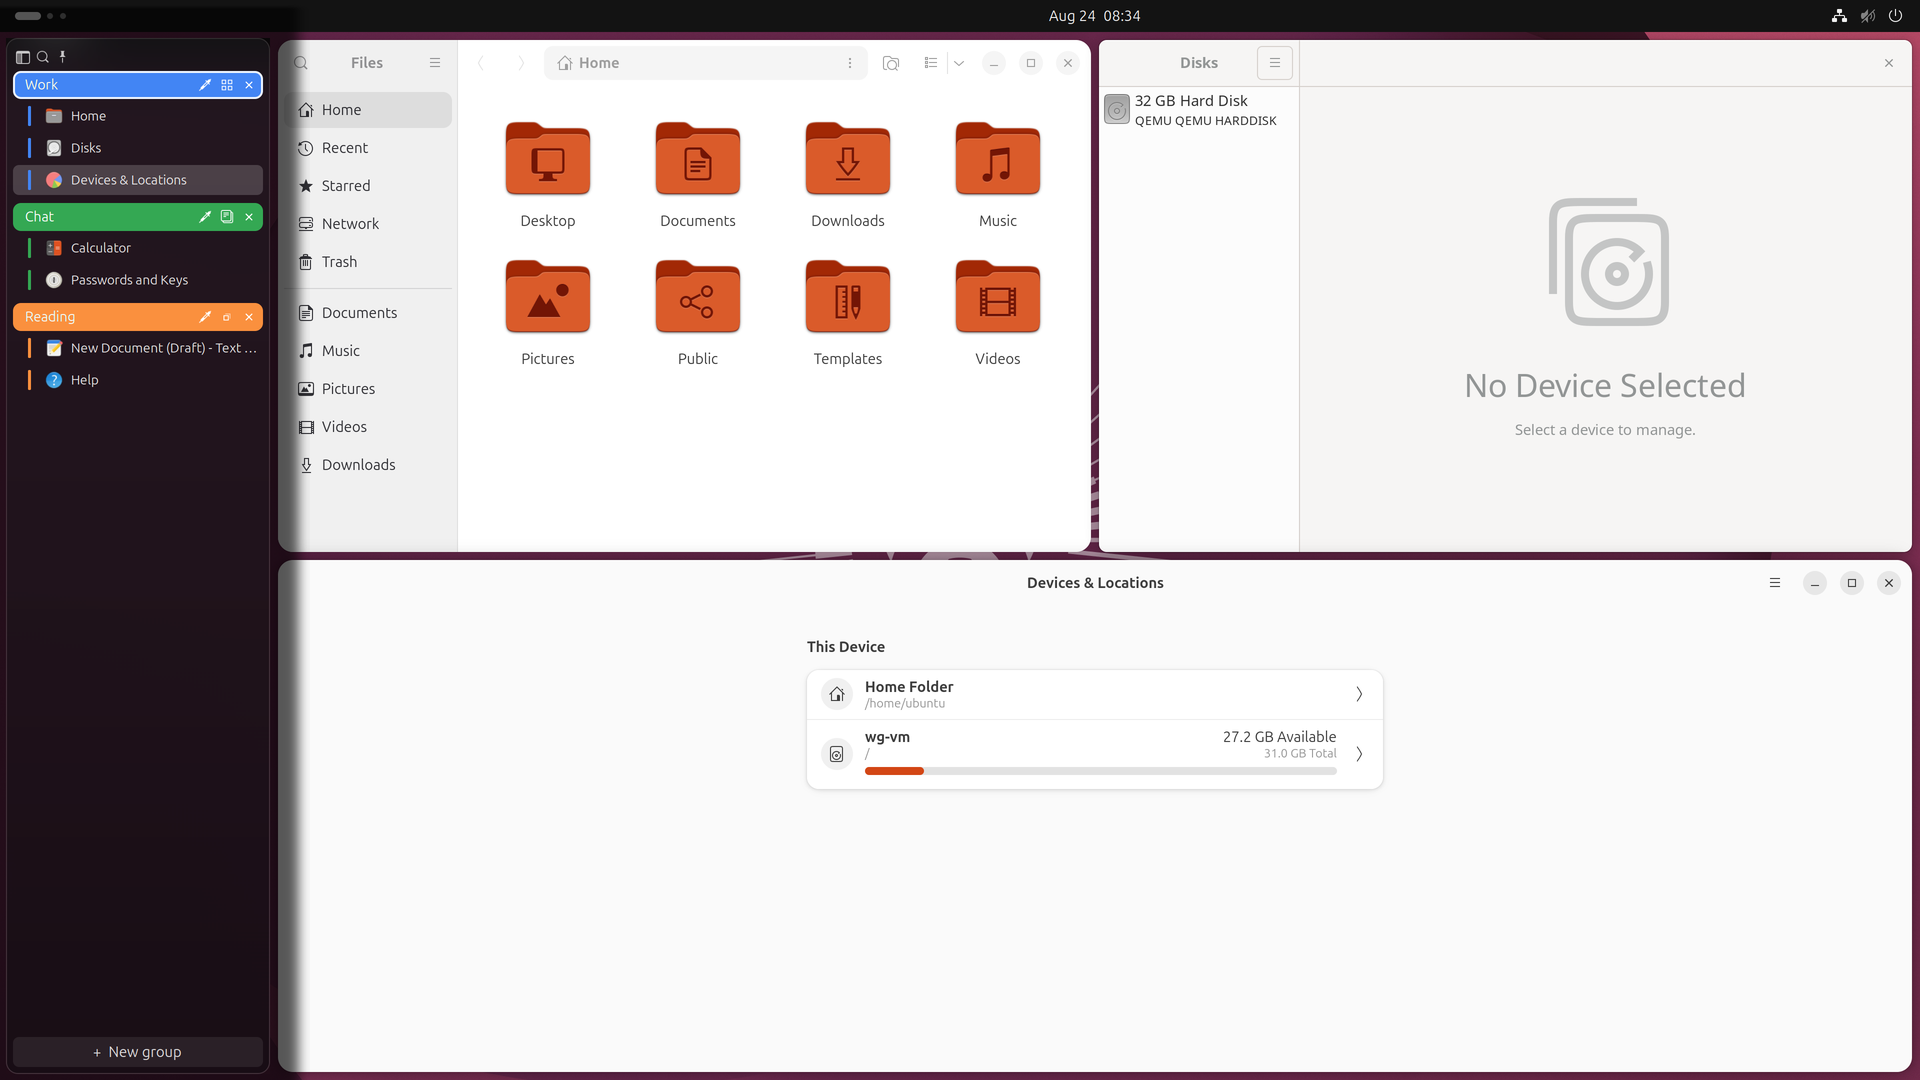
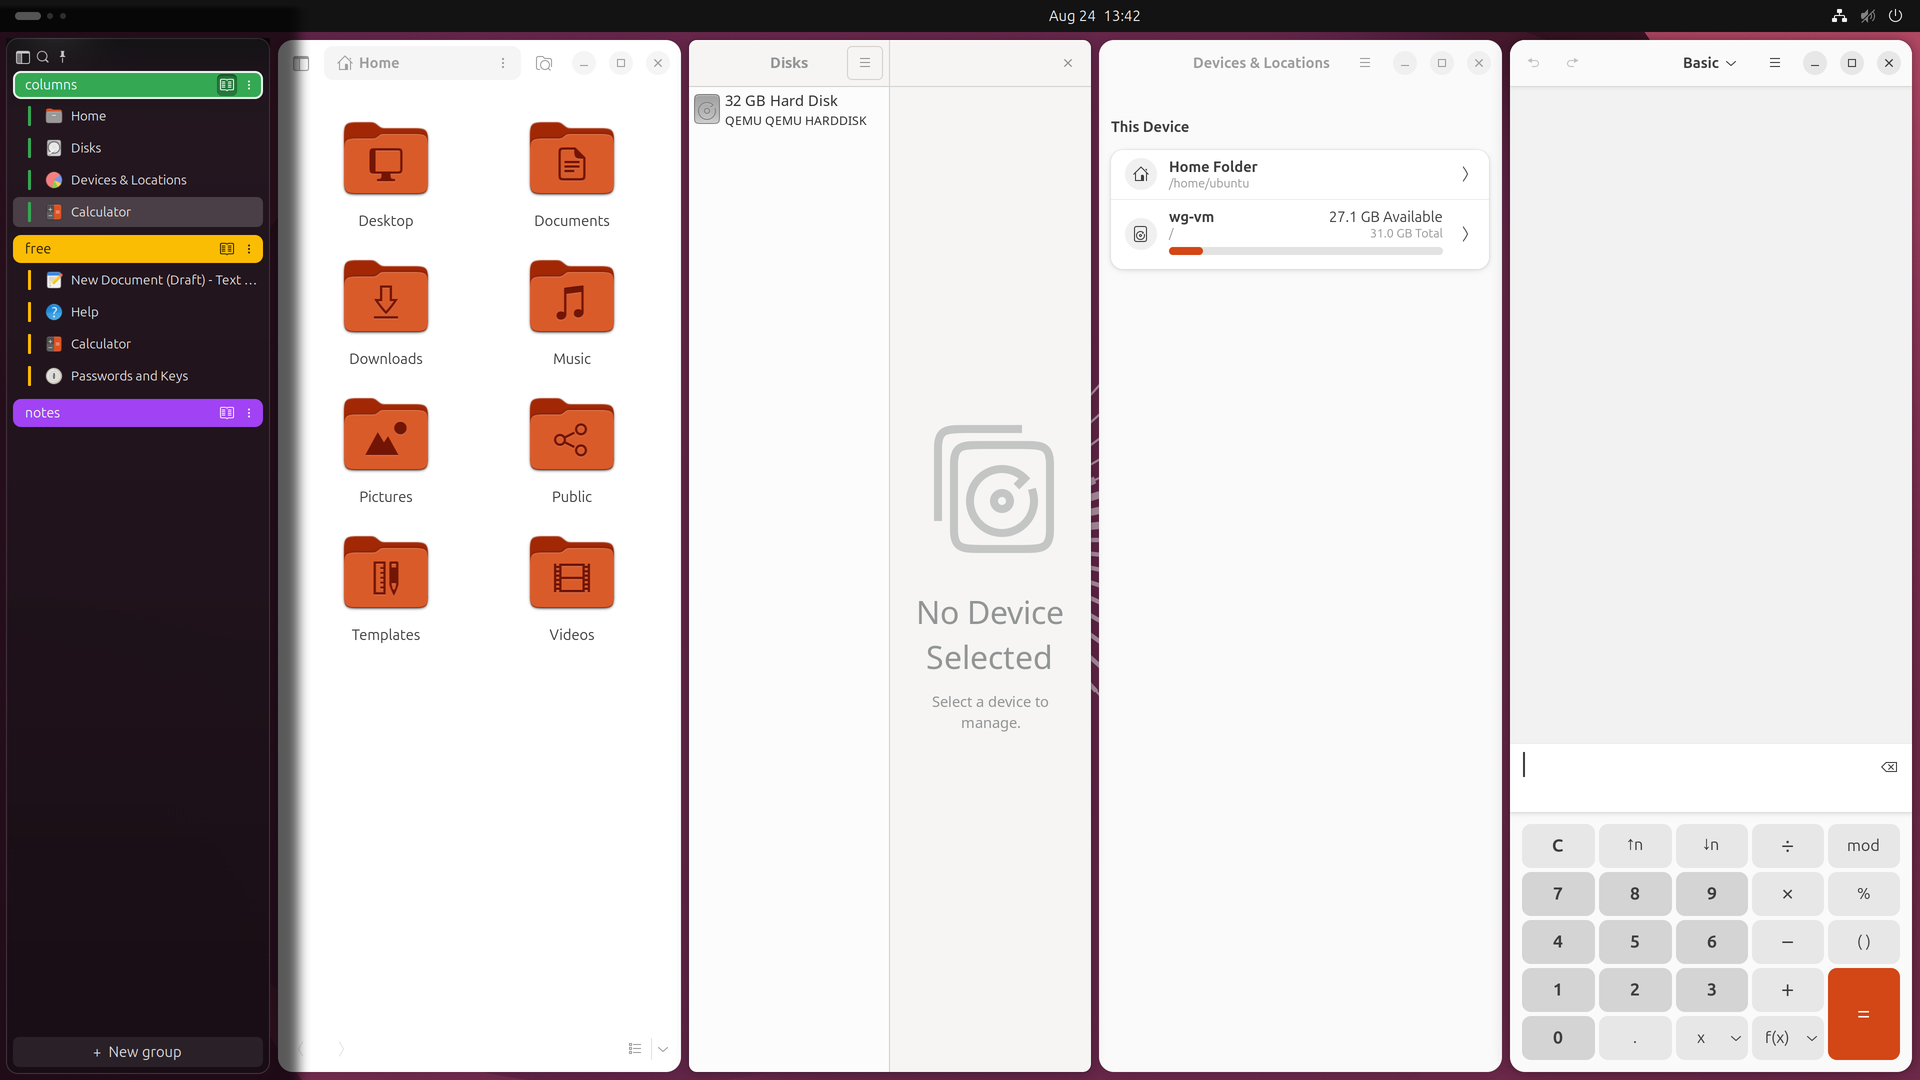
Put the arrangement on a toggle in the group header
Two arrangements is a boolean, so it is a switch, not a menu. Free/columns now
lives on the group header as a toggle button, checked when the group is tiled.

This does not undo the reasoning that moved controls into the menu. That was
about dissolve, which is irreversible, and rename, which is multi-step; both
are the wrong thing to put a few pixels from a control you click in passing on
a surface that appears and leaves on a timer. Arrangement is neither, has
exactly two states, and the button shows which one you are in. Three clicks
deep in a submenu it simply read as broken.

Drops the Arrangement submenu, and with it the workspace switch on change --
that existed only to make an invisible retile noticeable, and the toggle's own
state is better feedback than yanking you to another workspace. cycleArrangement
and ARRANGEMENT_LABEL are now unused and go too.

GetState reports the drawn arrangement and the toggle's checked state, and the
integration suite asserts both round-trip.

Also fix the keyboard section of that suite, which pressed up from the top
group and asserted it was still on the top group: three of its four checks
passed whether or not any keystroke was delivered. Only the fourth could fail,
and it did, intermittently -- for arriving late against a fixed one-second
sleep rather than for being wrong. Every step now moves to a value it was not
already on and waits for it. Three consecutive clean runs.

diff --git a/extension.js b/extension.js
@@ -79,10 +79,13 @@ const BUTTON_ICON_SIZE = 14;
  *  imports nothing from GNOME and is unit tested separately. */
 const ARRANGEMENTS = ['free', 'columns'];
 
-const ARRANGEMENT_LABEL = {
-    'free': 'Free',
-    'columns': 'Columns',
-};
+/** With exactly two arrangements the choice is a boolean, so the header
+ *  carries a toggle rather than a menu: one click each way, and the button
+ *  itself shows which way the group is set. A menu was the right home for
+ *  dissolve and rename -- irreversible and multi-step respectively -- but
+ *  tiling is neither, and burying a cheap reversible switch three clicks deep
+ *  made it read as broken. */
+const COLUMNS_ICON = 'view-dual-symbolic';
 
 /** Group colours, modelled on Chrome's tab groups, grey first as its default. */
 const GROUP_COLORS = [
@@ -167,12 +170,6 @@ class GroupModel {
         const values = this._padded(this._settings.get_strv('arrangements'), 'free');
         values[index] = value;
         this._settings.set_strv('arrangements', values);
-    }
-
-    cycleArrangement(index) {
-        const next = (ARRANGEMENTS.indexOf(this.arrangement(index)) + 1) % ARRANGEMENTS.length;
-        this.setArrangement(index, ARRANGEMENTS[next]);
-        return ARRANGEMENTS[next];
     }
 
     color(index) {
@@ -679,6 +676,16 @@ class GroupSection extends St.BoxLayout {
         });
         header.add_child(this._nameButton);
 
+        this._arrangeButton = iconButton(COLUMNS_ICON,
+            _('Tile this group in columns'), 'wg-icon-button');
+        this._arrangeButton.toggle_mode = true;
+        this._arrangeButton.checked =
+            this._model.arrangement(this._index) === 'columns';
+        this._arrangeButton.get_child().style = `color: ${ink};`;
+        this._arrangeButton.connect('clicked', button =>
+            this._setArrangement(button.checked ? 'columns' : 'free'));
+        header.add_child(this._arrangeButton);
+
         // One visible affordance for the whole menu. Right-clicking works
         // too, but an interaction with no affordance is one nobody finds.
         this._menuButton = iconButton('view-more-symbolic',
@@ -747,6 +754,14 @@ class GroupSection extends St.BoxLayout {
         this._header = header;
     }
 
+    _setArrangement(kind) {
+        this._model.setArrangement(this._index, kind);
+        // Stale ratios belong to the previous layout's slot count.
+        this._model.setLayoutState(this._index, {});
+        this._sidebar.relayout(this._index);
+        this._sidebar.queueRebuild();
+    }
+
     on_destroy() {
         this._closeMenu();
     }
@@ -757,12 +772,15 @@ class GroupSection extends St.BoxLayout {
     _recordRendered(color) {
         this._renderedColor = color.name;
         this._renderedName = this._model.name(this._index);
+        this._renderedArrangement = this._model.arrangement(this._index);
     }
 
     renderedState() {
         return {
             name: this._renderedName ?? '',
             color: this._renderedColor ?? '',
+            arrangement: this._renderedArrangement ?? '',
+            columnsToggle: this._arrangeButton?.checked ?? false,
         };
     }
 
@@ -826,30 +844,6 @@ class GroupSection extends St.BoxLayout {
             colors.menu.addMenuItem(item);
         }
         menu.addMenuItem(colors);
-
-        const layouts = new PopupMenu.PopupSubMenuMenuItem(
-            _('Arrangement: %s').format(
-                ARRANGEMENT_LABEL[this._model.arrangement(this._index)]));
-        for (const kind of ARRANGEMENTS) {
-            const item = new PopupMenu.PopupMenuItem(ARRANGEMENT_LABEL[kind]);
-            if (kind === this._model.arrangement(this._index))
-                item.setOrnament(PopupMenu.Ornament.DOT);
-            item.connect('activate', () => {
-                this._model.setArrangement(this._index, kind);
-                // Stale ratios belong to the previous layout's slot count.
-                this._model.setLayoutState(this._index, {});
-                // Switch to the group as well. Rearranging windows you cannot
-                // see is indistinguishable from the menu doing nothing, which
-                // is exactly how it was reported.
-                if (this._index !== this._model.activeIndex)
-                    this._model.workspace(this._index)?.activate(
-                        global.get_current_time());
-                this._sidebar.relayout(this._index);
-                this._sidebar.queueRebuild();
-            });
-            layouts.menu.addMenuItem(item);
-        }
-        menu.addMenuItem(layouts);
 
         menu.addMenuItem(new PopupMenu.PopupSeparatorMenuItem());
 

diff --git a/stylesheet.css b/stylesheet.css
@@ -67,6 +67,16 @@
 .wg-icon-button:insensitive {
     color: rgba(255, 255, 255, 0.25);
 }
+/* The arrangement toggle sits on the group's own colour, so a checked state
+   drawn in white would vanish on the pale swatches. An inset well reads the
+   same against every one of them. */
+.wg-icon-button:checked {
+    background-color: rgba(0, 0, 0, 0.28);
+    box-shadow: inset 0 1px 2px rgba(0, 0, 0, 0.35);
+}
+.wg-icon-button:checked:hover {
+    background-color: rgba(0, 0, 0, 0.38);
+}
 
 .wg-group-rows {
     spacing: 2px;

diff --git a/README.md b/README.md
@@ -10,7 +10,8 @@ itself how its windows are arranged: left alone, or tiled in columns.
 
 - **Groups** with names and colours. Drag a window between them, drag a group
   header to reorder.
-- **Per-group layouts** — leave windows alone, or tile them in columns.
+- **Per-group layouts** — leave windows alone, or tile them in columns,
+  toggled from the group header.
 - **Auto-hide** by default: the sidebar stays out of the way and slides in
   when you push the pointer at the left edge. Pin it if you'd rather it
   stayed.
@@ -51,7 +52,8 @@ gnome-extensions disable tiling-assistant@ubuntu.com
 | --- | --- |
 | click a window | focus it, switching group if needed |
 | click a group name | switch to that group |
-| ⋮ on a group, or right-click it | rename, colour, arrangement, dissolve |
+| the tile button on a group | switch it between free and columns |
+| ⋮ on a group, or right-click it | rename, colour, dissolve |
 | right-click a window | tag it |
 | drag a window onto a group | move it there |
 | drag a group header | reorder groups |
@@ -128,15 +130,18 @@ A reveal is provisional. The pointer must arrive on the sidebar within 1.5 s or
 it hides again; otherwise a pointer resting at the very edge reveals the
 sidebar and nothing ever puts it away.
 
-### Persistent controls live in a menu
+### What lives in the menu, and what does not
 
-Colour, arrangement, rename and dissolve are on a context menu (⋮ or
-right-click), not as icons in the group header. The header is a *transient*
-surface — with auto-hide it appears on a timer and leaves on one — which is
-the wrong home for an irreversible action sitting a few pixels from a control
-you click in passing, and for a multi-step interaction like renaming. A menu
-also replaces two blind cycles with labelled choices you can see before
-committing to.
+Colour, rename and dissolve are on a context menu (⋮ or right-click) rather
+than as icons in the group header. The header is a *transient* surface — with
+auto-hide it appears on a timer and leaves on one — which is the wrong home
+for an irreversible action sitting a few pixels from a control you click in
+passing, and for a multi-step interaction like renaming.
+
+Arrangement is the exception, and sits in the header as a toggle. It is
+neither irreversible nor multi-step, there are exactly two states, and the
+button shows which one you are in — so it is a switch, not a blind cycle.
+Behind a submenu it was three clicks deep and read as broken.
 
 ### Tags
 
@@ -151,7 +156,7 @@ restart. i3 and sway only offer rule-based `assign` for the same reason.
 
 ```sh
 make check        # lint, schema, 80 unit tests, 29 mutants — ~7s, no VM
-make integration  # 25 assertions against a real shell in a VM
+make integration  # 31 assertions against a real shell in a VM
 ```
 
 Four modules import nothing from GNOME and are unit tested: `layouts.js`

diff --git a/docs/testing.md b/docs/testing.md
@@ -5,7 +5,7 @@ and ascending order of what it costs to run.
 
 ```sh
 make check        # tiers 1–2: lint, schema, 80 unit tests, 29 mutants (~7s)
-make integration  # tier 3: 25 assertions against a real shell in a VM
+make integration  # tier 3: 31 assertions against a real shell in a VM
 ```
 
 The organising principle is that **every assertion must be capable of
@@ -23,6 +23,12 @@ oracle that could not:
   applied" passed for a sidebar that had stopped repainting entirely. `GetState`
   now also reports what the sections actually drew, which is the only field in
   it that can disagree with what the extension believes.
+- The keyboard section pressed up from the top group and asserted it was still
+  on the top group. Three of its four checks passed whether or not a single
+  keystroke was delivered; only the fourth could fail, and it did, sporadically
+  — for arriving late against a fixed one-second sleep rather than for being
+  wrong. Every step now moves to a value it was not already on, and waits for
+  it.
 
 ## Tier 1 — pure units
 
